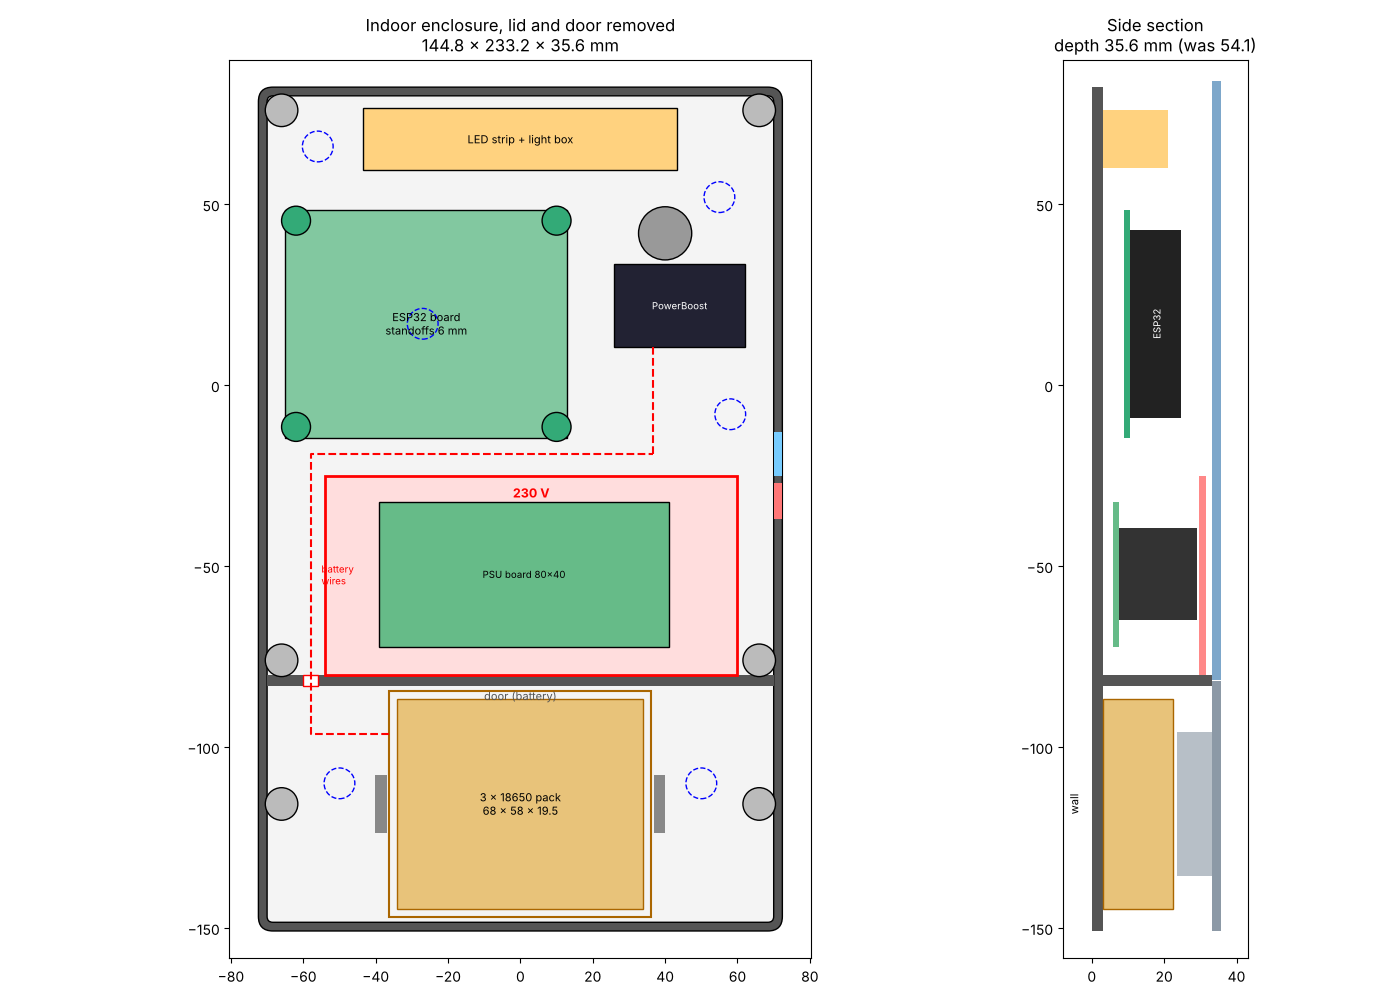
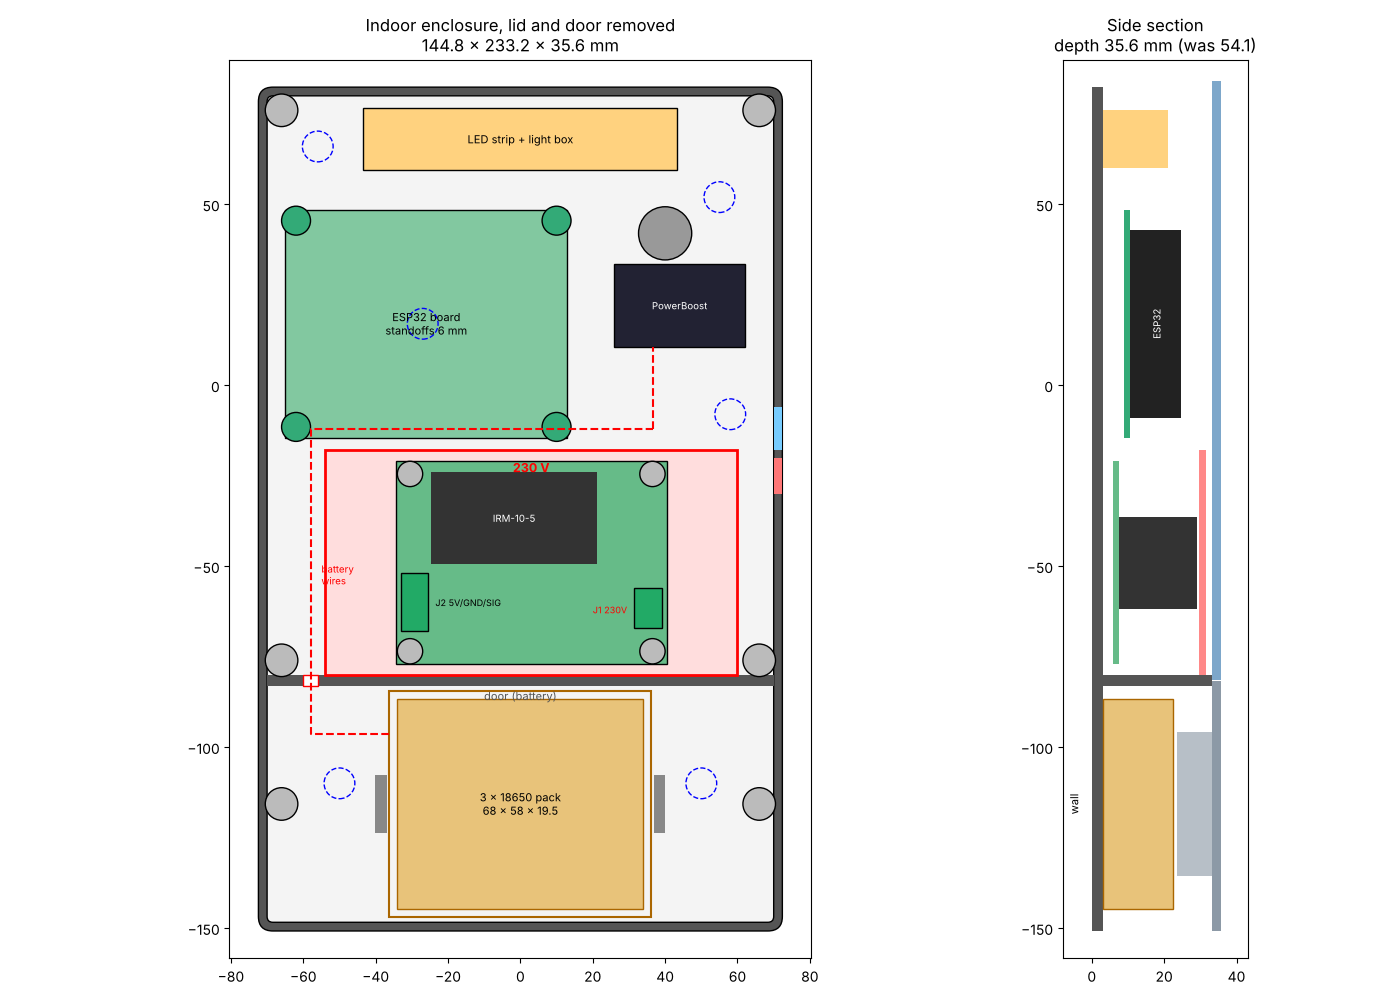
Indoor enclosure: posts and bay for the 75 x 56 power supply PCB
- 230 V bay 7 mm taller (inside 58 mm): fits the KiCad board
  alimentatore_5v_sense v1.0 (75 x 56, M3 holes at 67 x 49)
- board rotated 180 degrees: J1 (230 V) on the right, next to the mains
  entry and the cable tie; J2 (+5V, GND, SIG) on the left, next to the
  hole towards the ESP32 board
- 4 posts with short M3 heat-set inserts (nylon M3 x 6 screws)
- side opening 7 mm higher: cable cover alignment 100.4 mm
- low vent slots moved above the side opening
- firmware header: mains sense divider now on the power supply PCB

Claude-Session: https://claude.ai/code/session_015e9f9p5EFhy5EoRU7fAuGL

diff --git a/README.md b/README.md
@@ -27,7 +27,7 @@ Tested with **ESPHome 2026.10.1**, an ESP32-WROOM-32U DevKit (38 pin) and a **Nu
 | `common/secrets.example.yaml` | Secrets you need to provide (copy to `secrets.yaml`). |
 | `placca-503-campanello.scad` | OpenSCAD outdoor plate for an Italian 503 flush box (OLED, R503, PIR, push button, buzzer, reed, rubber cord seal). The two 503 screws are hidden under flush printed caps held by small magnets (`part = "screw_cap"`); OXID icon engraved bottom-right. A fin on the back holds the tamper lever microswitch (pressed by the inner wall of the box), and two posts carry a separate tray (`part = "rj45_tray"`) for the two RJ45 breakouts. |
 | `scatola-esp32-interna.scad` | OpenSCAD indoor enclosure (144.8 × 233.2 × 35.6 mm): ESP32 terminal board, PowerBoost, LED strip with light box and diffuser, indoor buzzer, separate 230 V bay and, at the bottom, a battery bay for the 3 × 18650 pack with its own screwed door (part `door`), split from the rest by a full-height wall. Lid and door are held by hidden 8 × 2 mm magnets: no screws on the front (`lid_fix`). Mounted next to an indoor wall socket: all cables come in through one opening in the right wall, split by a rib into a signal part and a 230 V part that leads into the bay through a closed channel with a cable tie (no mains in the outdoor box). |
-| `copricavo-503.scad` | OpenSCAD cable cover from the indoor 503 (BTicino Livinglight, 3 modules) to the ESP32 box: it sits on a pre-drilled blank in the leftmost module, climbs over the curved plate border and ends at the side opening of the box, with a divider between the 230 V cable and the ethernet cables. Box 20 mm to the left of the plate, its top edge 107.4 mm above the plate centre. Fixed with removable tape (it must come off before the plate). |
+| `copricavo-503.scad` | OpenSCAD cable cover from the indoor 503 (BTicino Livinglight, 3 modules) to the ESP32 box: it sits on a pre-drilled blank in the leftmost module, climbs over the curved plate border and ends at the side opening of the box, with a divider between the 230 V cable and the ethernet cables. Box 20 mm to the left of the plate, its top edge 100.4 mm above the plate centre. Fixed with removable tape (it must come off before the plate). |
 | `copricavo-anteprima.png` | Front view and section of the cable cover. |
 | `placca-anteprima.png` | Layout of the outdoor plate, front and back. |
 | `scatola-esp32-anteprima.png` | Layout preview of the indoor enclosure. |
